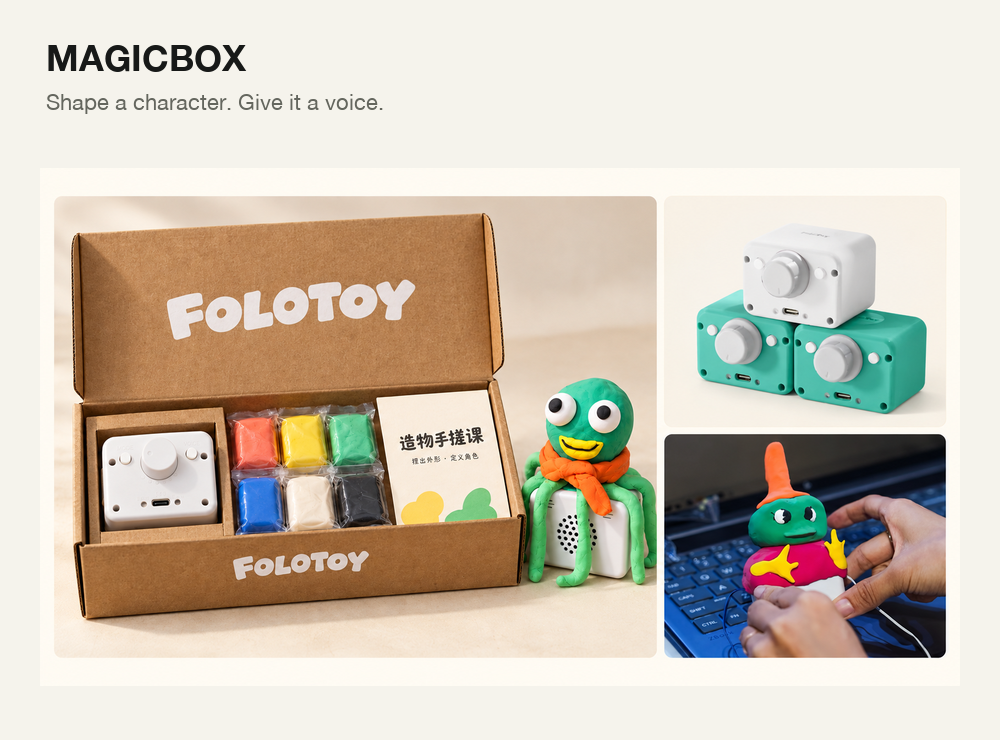
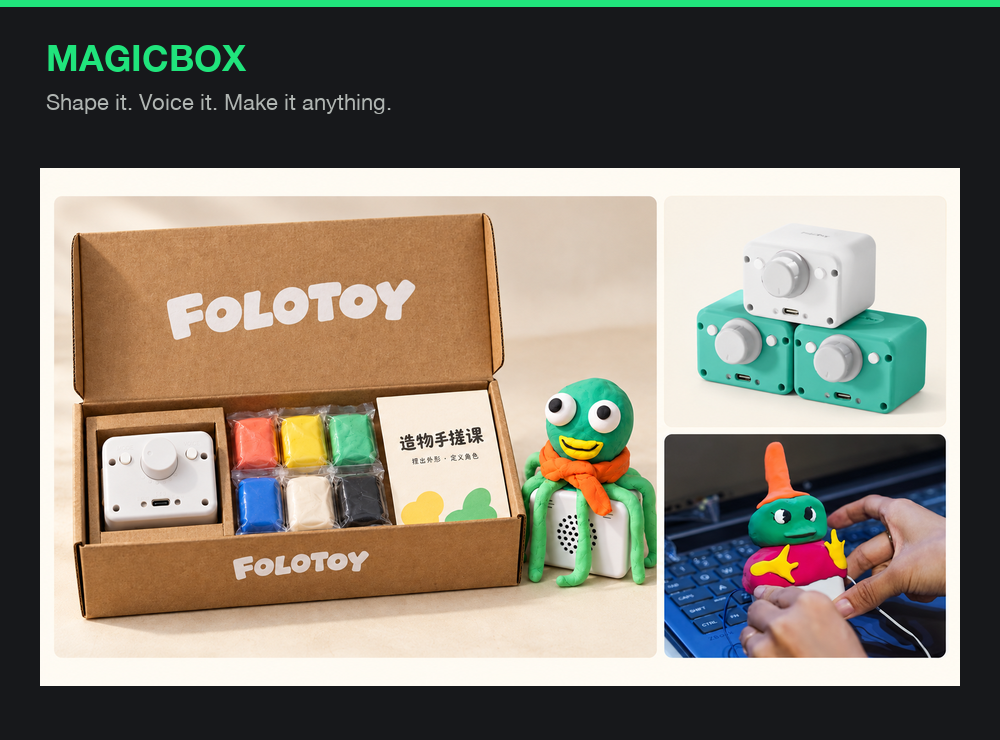
design: align with AI Passport theme and make it anything slogan

diff --git a/design/build_assets.py b/design/build_assets.py
@@ -4,37 +4,44 @@ ROOT = Path(__file__).resolve().parents[1]
 A=ROOT/'profile/assets'
 FONT='/System/Library/Fonts/HelveticaNeue.ttc'
 CN='/System/Library/Fonts/STHeiti Medium.ttc'
+# Theme tokens read from the live AI Passport website.
+BG='#0c0c0d'
+GREEN='#20e47c'
+TEXT='#f5f6f2'
+MUTED='#b0b5b2'
+PANEL='#17181b'
+LINE='#353a37'
 def font(size,bold=False,cn=False):
     return ImageFont.truetype(CN if cn else FONT,size,index=0 if cn else (1 if bold else 0))
-def text(d,xy,s,size=24,color='#171918',bold=False,cn=False):
+def text(d,xy,s,size=24,color=TEXT,bold=False,cn=False):
     d.text(xy,s,font=font(size,bold,cn),fill=color)
 def contain(im,box):
     im.thumbnail(box,Image.Resampling.LANCZOS); return im
-im=Image.new('RGB',(1800,790),'#f5f3ec');d=ImageDraw.Draw(im)
-# Quiet grid and framing give the real product room to breathe.
-for x in range(960,1800,55):d.line((x,0,x,700),fill='#e7e5dd')
-for y in range(0,700,55):d.line((960,y,1800,y),fill='#e7e5dd')
-d.ellipse((1080,95,1725,740),fill='#edebe2')
-logo=Image.open(A/'wordmark.png').convert('RGBA'); logo=contain(logo,(280,80));im.paste(logo,(74,60),logo)
-text(d,(76,190),'MAKE AI',106,bold=True)
-text(d,(76,310),'SOMETHING',106,bold=True)
-text(d,(76,430),'REAL.',106,color='#f36a35',bold=True)
-text(d,(81,572),'让 AI 走进真实世界。',40,cn=True)
+im=Image.new('RGB',(1800,790),BG);d=ImageDraw.Draw(im)
+for x in range(960,1800,55):d.line((x,0,x,700),fill='#202321')
+for y in range(0,700,55):d.line((960,y,1800,y),fill='#202321')
+d.ellipse((1050,65,1740,755),fill='#122a1e',outline='#244a35',width=2)
+logo=Image.open(A/'wordmark-white.png').convert('RGBA');logo=logo.crop(logo.getbbox());logo=contain(logo,(280,80));im.paste(logo,(74,60),logo)
+text(d,(76,207),'make it',124,bold=True)
+text(d,(70,335),'anything.',146,color=GREEN,bold=True)
+text(d,(81,540),'简单开放，人人可造。',40,cn=True)
+text(d,(83,610),'WEAR.  PLAY.  CREATE.',23,color=MUTED)
 product=Image.open(A/'ai-passport.png').convert('RGBA')
 product=product.crop(product.getbbox());product=contain(product,(820,650));im.paste(product,(935+(820-product.width)//2,38),product)
-d.rounded_rectangle((1303,620,1684,666),radius=23,fill='#171918')
-text(d,(1333,629),'AI PASSPORT / OPEN TO CREATE',18,color='#ffffff')
-d.rectangle((0,708,1800,790),fill='#f36a35')
-text(d,(78,735),'OPEN HARDWARE',23,bold=True)
-text(d,(552,735),'AI COMPANIONS',23,bold=True)
-text(d,(1065,735),'MADE BY YOU',23,bold=True)
-d.line((1668,765,1690,743),fill='#171918',width=3)
-d.line((1671,743,1690,743,1690,762),fill='#171918',width=3)
+d.rounded_rectangle((1303,620,1684,666),radius=23,fill=BG,outline=LINE,width=1)
+text(d,(1333,629),'AI PASSPORT / OPEN TO CREATE',18,color=GREEN)
+d.rectangle((0,708,1800,790),fill=GREEN)
+text(d,(78,735),'OPEN HARDWARE',23,color=BG,bold=True)
+text(d,(552,735),'AI COMPANIONS',23,color=BG,bold=True)
+text(d,(1065,735),'MADE BY YOU',23,color=BG,bold=True)
+d.line((1668,765,1690,743),fill=BG,width=3)
+d.line((1671,743,1690,743,1690,762),fill=BG,width=3)
 im.save(A/'hero.png',optimize=True)
-# Consistent product-card canvases; preserve source photographs and aspect ratio.
-for name,title,subtitle in [('ai-passport','AI PASSPORT','Wear it. Flash it. Make it anything.'),('magicbox','MAGICBOX','Shape a character. Give it a voice.')]:
-    card=Image.new('RGB',(1000,740),'#f5f3ec');cd=ImageDraw.Draw(card)
-    text(cd,(46,35),title,36,bold=True);text(cd,(46,89),subtitle,22,color='#64665e')
+for name,title,subtitle in [('ai-passport','AI PASSPORT','Wear it. Flash it. Make it anything.'),('magicbox','MAGICBOX','Shape it. Voice it. Make it anything.')]:
+    card=Image.new('RGB',(1000,740),PANEL);cd=ImageDraw.Draw(card)
+    cd.rectangle((0,0,1000,6),fill=GREEN)
+    text(cd,(46,35),title,36,color=GREEN,bold=True)
+    text(cd,(46,89),subtitle,22,color=MUTED)
     src=Image.open(A/('ai-passport.png' if name=='ai-passport' else 'magicbox.png')).convert('RGBA')
     if name=='ai-passport':src=src.crop(src.getbbox())
     src=contain(src,(920,540));card.paste(src,((1000-src.width)//2,157+(540-src.height)//2),src)

diff --git a/profile/README.md b/profile/README.md
@@ -1,5 +1,5 @@
 <p align="center">
-  <a href="https://ai-passport.folotoy.cn"><img src="assets/hero.png" width="100%" alt="FOLOTOY — Make AI something real. 让 AI 走进真实世界。Open hardware, AI companions, made by you."></a>
+  <a href="https://ai-passport.folotoy.cn"><img src="assets/hero.png" width="100%" alt="FOLOTOY — make it anything. 简单开放，人人可造。Open hardware, AI companions, made by you."></a>
 </p>
 
 <p align="center">
@@ -9,9 +9,9 @@
   <b><a href="https://folotoy.com">FoloToy</a></b>
 </p>
 
-**FoloToy brings AI into things you can hold, wear, and make your own.** From AI Passport to MagicBox, explore hardware, firmware, and developer resources to turn an idea into a companion, a tool, a game—or something entirely yours.
+**make it anything.** FoloToy brings AI into things you can hold, wear, and make your own. From AI Passport to MagicBox, explore hardware, firmware, and developer resources to turn an idea into a companion, a tool, a game—or something entirely yours.
 
-**FoloToy 让 AI 变成可以触摸、佩戴和亲手创造的伙伴。** 从 AI Passport 到 MagicBox，我们提供硬件、固件与开发资源，让你把一个想法做成随身伙伴、实用工具、小游戏，或属于自己的全新体验。
+**简单开放，人人可造。** FoloToy 让 AI 变成可以触摸、佩戴和亲手创造的伙伴。 从 AI Passport 到 MagicBox，我们提供硬件、固件与开发资源，让你把一个想法做成随身伙伴、实用工具、小游戏，或属于自己的全新体验。
 
 ## Find your canvas · 从这里开造
 
@@ -44,10 +44,10 @@
 | **开发 MagicBox 硬件** · Build on MagicBox | [BSP 与硬件版本说明 · Hardware profiles](https://github.com/FoloToy/MagicBox) |
 | **部署 FoloToy 社区服务** · Self-host the community server | [部署配置 · Self-hosting](https://github.com/FoloToy/folotoy-server-self-hosting) · [文档 · Docs](https://docs.folotoy.com) |
 
-## Make it yours. Share it forward. · 一起把想法做出来
+## Create & share · 一起把想法做出来
 
 Found a bug, built a new play, or have an idea? Open an issue or a pull request in the relevant repository. For AI Passport contributions, start with the [contribution guide](https://github.com/FoloToy/ai-passport/blob/main/.github/CONTRIBUTING.md).
 
 发现问题、做出新玩法，或有一个想试试的点子？欢迎到对应仓库提交 Issue 或 Pull Request。参与 AI Passport 共创，可以先阅读[贡献指南](https://github.com/FoloToy/ai-passport/blob/main/.github/CONTRIBUTING.zh_CN.md)。
 
-<p align="center"><b>Small devices. Endless possibilities.</b><br>小小设备，大大可能。</p>
+<p align="center"><b>make it anything.</b><br>简单开放，人人可造。</p>

diff --git a/design/README.md b/design/README.md
@@ -2,9 +2,14 @@
 
 The public organization profile is `profile/README.md`. It uses GitHub-supported Markdown, a two-column HTML table, and local PNG assets; no CSS, scripts, external fonts, or image-host services are required.
 
+## Brand direction
+
+The primary slogan is “make it anything.”, paired with “简单开放，人人可造。”. Colors match the live AI Passport site: background `#0c0c0d`, accent `#20e47c`, text `#f5f6f2`, panel `#17181b`, muted text `#b0b5b2`. GitHub controls the surrounding README colors; the banner and product artwork carry the brand palette in either GitHub theme.
+
 ## Assets
 
 - `profile/assets/ai-passport.png`: https://ai-passport.folotoy.cn/assets/ai-passport-product-showcase-transparent.png
+- `profile/assets/wordmark-white.png`: https://ai-passport.folotoy.cn/assets/hero/folotoy-white-logo.png
 - `profile/assets/wordmark.png`: https://github.com/FoloToy/ai-passport/blob/main/assets/images/logo-wordmark.png
 - `profile/assets/magicbox.png`: https://github.com/FoloToy/MagicBox/blob/main/docs/images/magicbox-overview.png
 - `hero.png`, `ai-passport-card.png`, `magicbox-card.png`: composed from the above FoloToy assets by `build_assets.py`. Product imagery retains its proportions.
@@ -13,4 +18,4 @@ Run `python3 design/build_assets.py` with Pillow and the macOS fonts referenced 
 
 Structure follows the reference https://github.com/makecindy: brand hero → useful links → bilingual introduction → project navigation. The visual design uses FoloToy's own logo and product photography.
 
-Optional organization settings: description “AI companions, open hardware, and things you make your own. · 让 AI 走进真实世界。”; website https://ai-passport.folotoy.cn; pinned public repositories `ai-passport`, `MagicBox`, `ai-passport-arduino`, `ai-passport-micropython`, `folotoy-server-self-hosting`, `folotoy-doc`. These settings are recommendations, not applied by this change.
+Optional organization settings: description “make it anything. · 简单开放，人人可造。”; website https://ai-passport.folotoy.cn; pinned public repositories `ai-passport`, `MagicBox`, `ai-passport-arduino`, `ai-passport-micropython`, `folotoy-server-self-hosting`, `folotoy-doc`. These settings are recommendations, not applied by this change.
